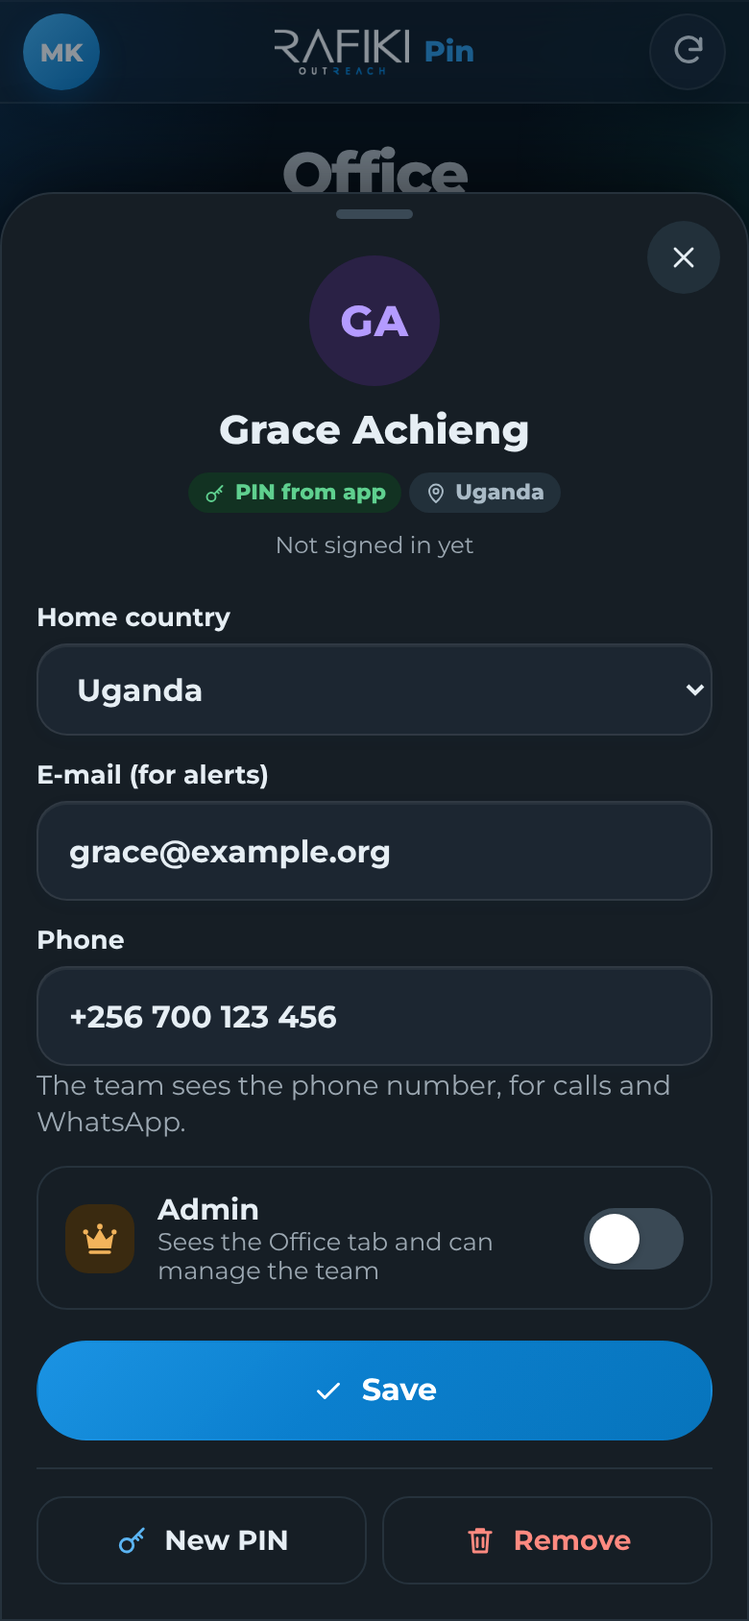
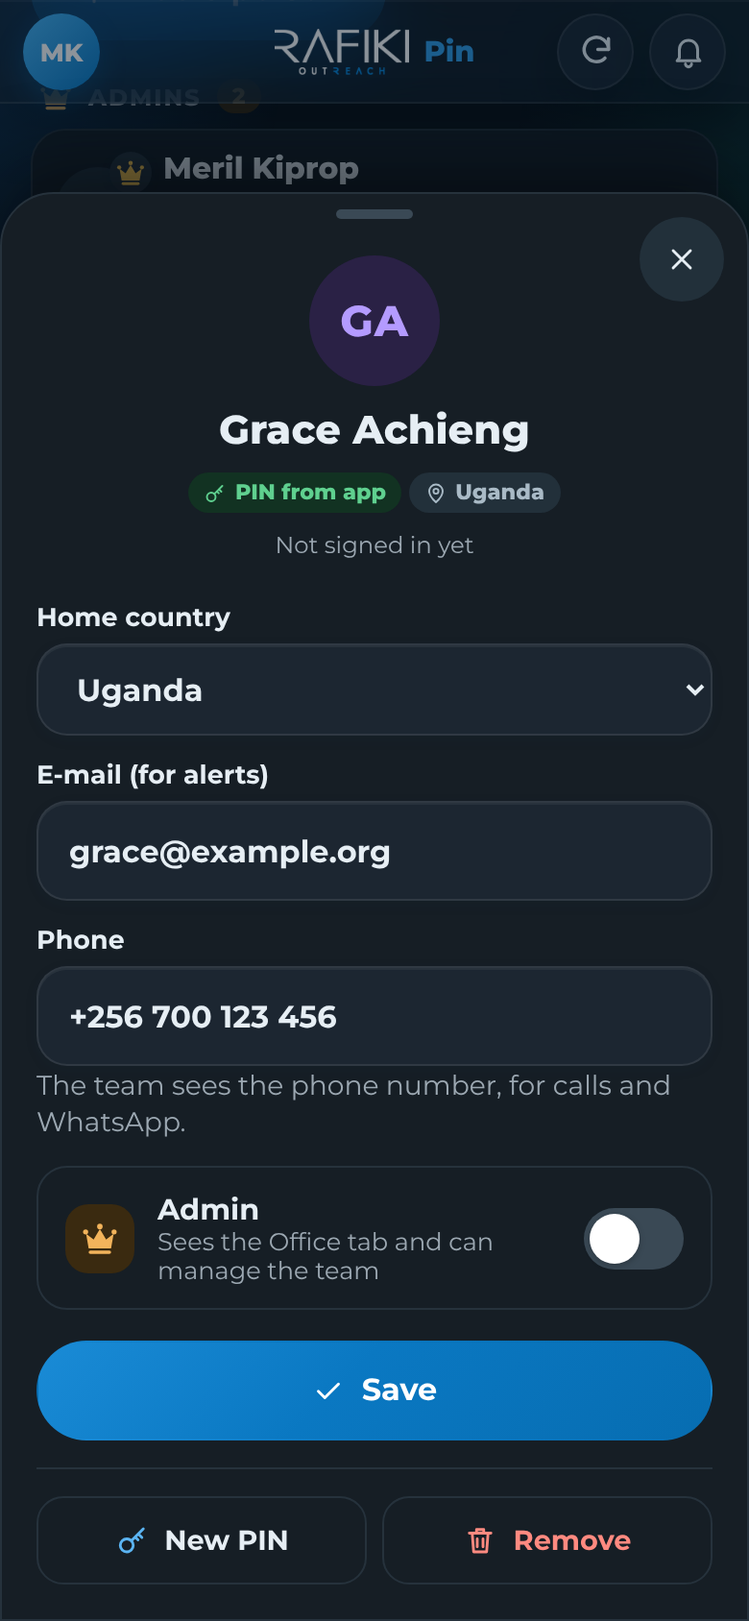
Office › Team: fixes after the merge, dark and sun checks, admin row target
Claude-Session: https://claude.ai/code/session_01P7qSY1BrJphTjrgnmLJhfF

diff --git a/pin.html b/pin.html
@@ -5229,41 +5229,40 @@ label.dnr-p small{display:block;color:var(--muted);font-size:.76rem;font-weight:
   // team: people, roles, PINs. A short list grouped by role (admins wear a crown); tap a person for a sheet with their details and actions.
   Object.assign(OIC, {
     key: '<circle cx="8" cy="15.5" r="4.5"/><path d="M11.2 12.3 19.5 4M16 7.5l2.5 2.5M13.8 9.7l2 2"/>',
-    trash: '<path d="M4.5 6.5h15M9.5 6.5v-2h5v2M6.5 6.5l1 13.5h9l1-13.5M10 10.5v6M14 10.5v6"/>',
     mail: '<rect x="3.5" y="5.5" width="17" height="13" rx="2.5"/><path d="M4 7.5l8 6 8-6"/>',
     cloud: '<path d="M7 18.5a4.5 4.5 0 0 1-.6-9A6 6 0 0 1 18 9.6a4.5 4.5 0 0 1-.5 8.9z"/>',
     x: '<path d="M6 6l12 12M18 6L6 18"/>'
   });
   var CROWN = '<svg viewBox="0 0 24 24" aria-hidden="true"><path fill="currentColor" d="M3.4 8.9 8.1 12.4l3.9-6.6 3.9 6.6 4.7-3.5-1.6 9.1H5z"/><rect fill="currentColor" x="5" y="19.3" width="14" height="2.2" rx="1.1"/><circle fill="currentColor" cx="3.1" cy="7.7" r="1.6"/><circle fill="currentColor" cx="12" cy="4.3" r="1.7"/><circle fill="currentColor" cx="20.9" cy="7.7" r="1.6"/></svg>';
   var TM_HUES = ['blue', 'green', 'purple', 'teal', 'coral', 'slate'];
-  var TM_SRC = { app: ['PIN from app', 'key'], cloudflare: ['PIN in Cloudflare', 'cloud'], monday: ['monday.com', 'people'] };
+  var TM_SRC = { app: ['PIN from app', 'key', 'PIN ya programu'], cloudflare: ['PIN in Cloudflare', 'cloud', 'PIN iko Cloudflare'], monday: ['monday.com', 'people'] };
   function tmHue(n) { var h = 7; String(n || '').toLowerCase().split('').forEach(function (c) { h = (h * 31 + c.charCodeAt(0)) >>> 0; }); return TM_HUES[h % TM_HUES.length]; }
   function tmAv(p) { var h = tmHue(p.name); return '<span class="tm-av" style="--hu:var(--hu-' + h + ');--hb:var(--hb-' + h + ')" aria-hidden="true">' + esc(initials(p.name)) + (p.admin ? '<i class="cr">' + CROWN + '</i>' : '') + '</span>'; }
   function tmTags(p, long) {
     var s = TM_SRC[p.source] || TM_SRC.app;
-    return '<span class="tm-tags">' + (p.admin ? '<span class="tm-t adm">' + CROWN + 'Admin</span>' : '') + '<span class="tm-t s-' + esc(p.source || 'app') + '">' + oic(s[1]) + s[0] + '</span>' +
+    return '<span class="tm-tags">' + (p.admin ? '<span class="tm-t adm">' + CROWN + tr('Admin', 'Msimamizi') + '</span>' : '') + '<span class="tm-t s-' + esc(p.source || 'app') + '">' + oic(s[1]) + tr(s[0], s[2]) + '</span>' +
       (CNAME[p.home] ? '<span class="tm-t" title="' + CNAME[p.home] + '">' + oic('pin') + (long ? CNAME[p.home] : p.home.toUpperCase()) + '</span>' : '') + '</span>';
   }
-  function tmSeen(p) { return p.lastSeen ? 'Last active ' + esc(since(p.lastSeen)) : 'Not signed in yet'; }
-  function tmHomes(sel) { return '<option value="">All countries</option>' + ['ke', 'tz', 'ug', 'mw'].map(function (c) { return '<option value="' + c + '"' + (sel === c ? ' selected' : '') + '>' + CNAME[c] + '</option>'; }).join(''); }
-  function tmSwitch(on) { return '<button type="button" class="tm-sw" role="switch" aria-checked="' + !!on + '" data-f="admin"><span class="ic">' + CROWN + '</span><span><b>Admin</b><small>Sees the Office tab and can manage the team</small></span><i aria-hidden="true"></i></button>'; }
+  function tmSeen(p) { return p.lastSeen ? tr('Last active ', 'Alitumia mwisho ') + esc(since(p.lastSeen)) : tr('Not signed in yet', 'Bado hajaingia'); }
+  function tmHomes(sel) { return '<option value="">' + tr('All countries', 'Nchi zote') + '</option>' + ['ke', 'tz', 'ug', 'mw'].map(function (c) { return '<option value="' + c + '"' + (sel === c ? ' selected' : '') + '>' + CNAME[c] + '</option>'; }).join(''); }
+  function tmSwitch(on) { return '<button type="button" class="tm-sw" role="switch" aria-checked="' + !!on + '" data-f="admin"><span class="ic">' + CROWN + '</span><span><b>' + tr('Admin', 'Msimamizi') + '</b><small>' + tr('Sees the Office tab and can manage the team', 'Anaona Ofisi na anaweza kusimamia timu') + '</small></span><i aria-hidden="true"></i></button>'; }
   function oTeam(b, quiet) {
     var all = (O.team || []).slice().sort(function (a, z) { return a.name.localeCompare(z.name); }), i = 0;
     var adm = all.filter(function (p) { return p.admin; }), fld = all.filter(function (p) { return !p.admin; });
     var row = function (p) {
-      return '<button type="button" class="tm-row" data-who="' + esc(p.name) + '" style="--i:' + Math.min(i++, 12) + '" aria-label="' + esc(p.name) + (p.admin ? ', admin' : '') + '">' + tmAv(p) +
+      return '<button type="button" class="tm-row" data-who="' + esc(p.name) + '" style="--i:' + Math.min(i++, 12) + '" aria-label="' + esc(p.name) + (p.admin ? ', ' + tr('admin', 'msimamizi') : '') + '">' + tmAv(p) +
         '<span class="tm-mid"><b class="tm-nm">' + esc(p.name) + '</b>' + tmTags(p) + '<small class="tm-seen">' + tmSeen(p) + '</small></span><span class="tm-chev" aria-hidden="true">' + oic('chev') + '</span></button>';
     };
     var sec = function (k, title, ic, list) {
       return '<h3 class="tm-sec ' + k + '" data-sec="' + k + '">' + ic + '<span>' + title + '</span><span class="n">' + list.length + '</span></h3><div class="tm-list' + (quiet ? ' still' : '') + '" data-sec="' + k + '">' +
-        (list.length ? list.map(row).join('') : '<p class="tm-empty">' + (k === 'adm' ? 'No admins yet.' : 'Nobody here yet. Add a person above.') + '</p>') + '</div>';
+        (list.length ? list.map(row).join('') : '<p class="tm-empty">' + (k === 'adm' ? tr('No admins yet.', 'Bado hakuna wasimamizi.') : tr('Nobody here yet. Add a person above.', 'Hakuna mtu bado. Ongeza mtu hapo juu.')) + '</p>') + '</div>';
     };
-    b.innerHTML = '<div class="o-grid tm"><div><div class="tm-top"><button class="btn" type="button" id="tmAdd">' + oic('plus') + 'Add a person</button>' +
-      (all.length > 8 ? '<input type="search" id="tmQ" placeholder="Find a person" aria-label="Find a person" autocomplete="off">' : '') + '</div>' +
-      sec('adm', 'Admins', CROWN, adm) + sec('fld', 'Field team', oic('people'), fld) + '</div>' +
-      '<div class="o-side"><div class="card"><div class="tm-mail"><span class="ic">' + oic('mail') + '</span><div><h2>E-mail alerts</h2>' +
-      (O.mail && O.mail.ready ? '<p class="muted">Alerts go to: <b>' + esc((O.mail.to || []).join(', ') || 'nobody yet: add an admin with an e-mail') + '</b></p><button class="btn small light" type="button" id="tTest">Send a test e-mail</button> <span class="msg" id="tTestMsg" aria-live="polite"></span>'
-        : '<p class="muted">Not switched on yet. Add RESEND_API_KEY and ALERT_FROM in Cloudflare (see the set-up notes).</p>') + '</div></div></div></div></div>';
+    b.innerHTML = '<div class="o-grid tm"><div><div class="tm-top"><button class="btn" type="button" id="tmAdd">' + oic('plus') + tr('Add a person', 'Ongeza mtu') + '</button>' +
+      (all.length > 8 ? '<input type="search" id="tmQ" placeholder="' + tr('Find a person', 'Tafuta mtu') + '" aria-label="' + tr('Find a person', 'Tafuta mtu') + '" autocomplete="off">' : '') + '</div>' +
+      sec('adm', tr('Admins', 'Wasimamizi'), CROWN, adm) + sec('fld', tr('Field team', 'Timu ya uwanjani'), oic('people'), fld) + '</div>' +
+      '<div class="o-side"><div class="card"><div class="tm-mail"><span class="ic">' + oic('mail') + '</span><div><h2>' + tr('E-mail alerts', 'Taarifa kwa barua pepe') + '</h2>' +
+      (O.mail && O.mail.ready ? '<p class="muted">' + tr('Alerts go to: ', 'Taarifa zinaenda kwa: ') + '<b>' + esc((O.mail.to || []).join(', ') || tr('nobody yet: add an admin with an e-mail', 'bado hakuna: ongeza msimamizi mwenye barua pepe')) + '</b></p><button class="btn small light" type="button" id="tTest">' + tr('Send a test e-mail', 'Tuma barua pepe ya majaribio') + '</button> <span class="msg" id="tTestMsg" aria-live="polite"></span>'
+        : '<p class="muted">' + tr('Not switched on yet. Add RESEND_API_KEY and ALERT_FROM in Cloudflare (see the set-up notes).', 'Bado haijawashwa. Ongeza RESEND_API_KEY na ALERT_FROM kwenye Cloudflare (angalia maelezo ya kuweka).') + '</p>') + '</div></div></div></div></div>';
     var g = b.querySelector('.o-grid');
     g.addEventListener('click', function (e) { var r = e.target.closest('.tm-row'); if (r) { buzz(); tmOpen(r.getAttribute('data-who')); } });
     $('tmAdd').addEventListener('click', function () { buzz(); tmAddOpen(); });
@@ -5274,13 +5273,13 @@ label.dnr-p small{display:block;color:var(--muted);font-size:.76rem;font-weight:
         var h = g.querySelector('.tm-sec[data-sec=' + l.getAttribute('data-sec') + ']'); h.querySelector('.n').textContent = n; h.hidden = l.hidden = !!q && !n;
       });
     });
-    if ($('tTest')) $('tTest').addEventListener('click', function () { msg('tTestMsg', '', 'Sending…'); adminApi('POST', { action: 'test-mail' }).then(function (j) { msg('tTestMsg', j.ok ? 'ok' : 'bad', j.ok ? 'Sent ✓ Check the inbox.' : j.reason === 'no-recipients' ? 'No e-mail addresses yet.' : why(j)); }); });
+    if ($('tTest')) $('tTest').addEventListener('click', function () { msg('tTestMsg', '', tr('Sending…', 'Inatuma…')); adminApi('POST', { action: 'test-mail' }).then(function (j) { msg('tTestMsg', j.ok ? 'ok' : 'bad', j.ok ? tr('Sent ✓ Check the inbox.', 'Imetumwa ✓ Angalia barua pepe.') : j.reason === 'no-recipients' ? tr('No e-mail addresses yet.', 'Bado hakuna anwani za barua pepe.') : why(j)); }); });
   }
   function tmRedraw() { if (S.view === 'vOffice' && O.tab === 'team') oNeedTeam(function () { oTeam($('oBody'), true); }); }
   // a sheet that springs up from the bottom (a centred card on a wide screen). Tap outside, drag down or Esc closes it.
   function tSheet(label, html) {
     var w = document.createElement('div'), back = document.activeElement; w.className = 'tsh'; w.setAttribute('role', 'dialog'); w.setAttribute('aria-modal', 'true'); w.setAttribute('aria-label', label);
-    w.innerHTML = '<div class="tsh-bg"></div><div class="tsh-p" tabindex="-1"><i class="grab" aria-hidden="true"></i><button type="button" class="tsh-x" aria-label="Close">' + oic('x') + '</button><div class="tsh-c">' + html + '</div></div>';
+    w.innerHTML = '<div class="tsh-bg"></div><div class="tsh-p" tabindex="-1"><i class="grab" aria-hidden="true"></i><button type="button" class="tsh-x" aria-label="' + tr('Close', 'Funga') + '">' + oic('x') + '</button><div class="tsh-c">' + html + '</div></div>';
     document.body.appendChild(w); void w.offsetWidth;
     var p = w.querySelector('.tsh-p'), y0 = null, dy = 0, key = function (e) { if (e.key === 'Escape') w.close(); };
     requestAnimationFrame(function () { w.classList.add('in'); try { p.focus({ preventScroll: true }); } catch (e) {} });
@@ -5297,25 +5296,25 @@ label.dnr-p small{display:block;color:var(--muted);font-size:.76rem;font-weight:
   }
   // ask before something that can't be undone, inside the sheet
   function tmAsk(box, q, label, red, go) {
-    box.innerHTML = '<div class="tm-ask' + (red ? ' bad' : '') + '" role="group" aria-label="' + esc(label) + '"><p>' + esc(q) + '</p><div class="tm-go"><button class="btn small light" type="button" data-k="no">Cancel</button><button class="btn small' + (red ? ' red' : '') + '" type="button" data-k="yes">' + esc(label) + '</button><span class="msg" aria-live="polite"></span></div></div>';
+    box.innerHTML = '<div class="tm-ask' + (red ? ' bad' : '') + '" role="group" aria-label="' + esc(label) + '"><p>' + esc(q) + '</p><div class="tm-go"><button class="btn small light" type="button" data-k="no">' + tr('Cancel', 'Ghairi') + '</button><button class="btn small' + (red ? ' red' : '') + '" type="button" data-k="yes">' + esc(label) + '</button><span class="msg" aria-live="polite"></span></div></div>';
     var m = box.querySelector('.msg');
     box.querySelector('[data-k=no]').addEventListener('click', function () { box.innerHTML = ''; });
-    box.querySelector('[data-k=yes]').addEventListener('click', function () { qa('button', box).forEach(function (x) { x.disabled = true; }); m.className = 'msg'; m.textContent = 'Working…'; go(m); });
+    box.querySelector('[data-k=yes]').addEventListener('click', function () { qa('button', box).forEach(function (x) { x.disabled = true; }); m.className = 'msg'; m.textContent = tr('Working…', 'Inafanya kazi…'); go(m); });
     box.querySelector('[data-k=yes]').focus({ preventScroll: true }); box.scrollIntoView({ block: 'nearest', behavior: 'smooth' });
   }
   function tmOpen(name) {
     var p = (O.team || []).filter(function (x) { return x.name === name; })[0]; if (!p) return;
     var app = p.source === 'app', hd = function () { return '<div class="tm-hd">' + tmAv(p) + '<h3>' + esc(p.name) + '</h3>' + tmTags(p, true) + '<small class="tm-seen">' + tmSeen(p) + '</small></div>'; };
     var html = hd() + (app
-      ? '<div class="tm-f"><label>Home country<select data-f="home">' + tmHomes(p.home) + '</select></label>' +
-        '<div class="row2"><label>E-mail (for alerts)<input type="email" data-f="email" value="' + esc(p.email || '') + '" placeholder="name@rafikioutreach.org" autocomplete="off"></label>' +
-        '<label>Phone<input type="tel" data-f="phone" value="' + esc(p.phone || '') + '" placeholder="+254 712 345 678" autocomplete="off"></label></div>' +
-        '<small class="muted">The team sees the phone number, for calls and WhatsApp.</small>' + tmSwitch(p.admin) +
-        '<div class="tm-go"><button class="btn" type="button" data-a="save">' + oic('check') + 'Save</button><span class="msg" aria-live="polite"></span></div>' +
-        '<div class="tm-ab"><button type="button" data-a="pin">' + oic('key') + 'New PIN</button><button type="button" data-a="rm">' + oic('trash') + 'Remove</button></div><div class="tm-cf" aria-live="polite"></div></div>'
-      : '<div class="tm-note ' + esc(p.source) + '">' + oic(p.source === 'cloudflare' ? 'cloud' : 'people') + '<span>' + (p.source === 'cloudflare' ? 'Set in Cloudflare — change it there, or re-add here with an app PIN.' : 'Signs in with monday.com. The Admin role comes from PIN_ADMINS in Cloudflare.') + '</span></div>' +
-        (p.email || p.phone ? '<dl class="tm-kv">' + (p.email ? '<div><dt>E-mail</dt><dd>' + esc(p.email) + '</dd></div>' : '') + (p.phone ? '<div><dt>Phone</dt><dd>' + esc(p.phone) + '</dd></div>' : '') + '</dl>' : '') +
-        '<div class="tm-go"><button class="btn light" type="button" data-a="readd">' + oic('key') + (p.source === 'cloudflare' ? 'Re-add with an app PIN' : 'Give them an app PIN') + '</button></div>');
+      ? '<div class="tm-f"><label>' + tr('Home country', 'Nchi ya nyumbani') + '<select data-f="home">' + tmHomes(p.home) + '</select></label>' +
+        '<div class="row2"><label>' + tr('E-mail (for alerts)', 'Barua pepe (kwa taarifa)') + '<input type="email" data-f="email" value="' + esc(p.email || '') + '" placeholder="name@rafikioutreach.org" autocomplete="off"></label>' +
+        '<label>' + tr('Phone', 'Simu') + '<input type="tel" data-f="phone" value="' + esc(p.phone || '') + '" placeholder="+254 712 345 678" autocomplete="off"></label></div>' +
+        '<small class="muted">' + tr('The team sees the phone number, for calls and WhatsApp.', 'Timu inaona namba ya simu, kwa kupiga na WhatsApp.') + '</small>' + tmSwitch(p.admin) +
+        '<div class="tm-go"><button class="btn" type="button" data-a="save">' + oic('check') + tr('Save', 'Hifadhi') + '</button><span class="msg" aria-live="polite"></span></div>' +
+        '<div class="tm-ab"><button type="button" data-a="pin">' + oic('key') + tr('New PIN', 'PIN mpya') + '</button><button type="button" data-a="rm">' + oic('trash') + tr('Remove', 'Ondoa') + '</button></div><div class="tm-cf" aria-live="polite"></div></div>'
+      : '<div class="tm-note ' + esc(p.source) + '">' + oic(p.source === 'cloudflare' ? 'cloud' : 'people') + '<span>' + (p.source === 'cloudflare' ? tr('Set in Cloudflare — change it there, or re-add here with an app PIN.', 'Imewekwa Cloudflare — ibadilishe huko, au mwongeze hapa kwa PIN ya programu.') : tr('Signs in with monday.com. The Admin role comes from PIN_ADMINS in Cloudflare.', 'Anaingia kwa monday.com. Nafasi ya msimamizi inatoka PIN_ADMINS kwenye Cloudflare.')) + '</span></div>' +
+        (p.email || p.phone ? '<dl class="tm-kv">' + (p.email ? '<div><dt>' + tr('E-mail', 'Barua pepe') + '</dt><dd>' + esc(p.email) + '</dd></div>' : '') + (p.phone ? '<div><dt>' + tr('Phone', 'Simu') + '</dt><dd>' + esc(p.phone) + '</dd></div>' : '') + '</dl>' : '') +
+        '<div class="tm-go"><button class="btn light" type="button" data-a="readd">' + oic('key') + (p.source === 'cloudflare' ? tr('Re-add with an app PIN', 'Mwongeze kwa PIN ya programu') : tr('Give them an app PIN', 'Mpe PIN ya programu')) + '</button></div>');
     var w = tSheet(p.name, html), c = w.querySelector('.tsh-c'), cf = c.querySelector('.tm-cf'), m = c.querySelector('.tm-go .msg');
     c.addEventListener('click', function (e) {
       var sw = e.target.closest('.tm-sw'); if (sw) { sw.setAttribute('aria-checked', String(sw.getAttribute('aria-checked') !== 'true')); buzz(); return; }
@@ -5324,22 +5323,22 @@ label.dnr-p small{display:block;color:var(--muted);font-size:.76rem;font-weight:
       if (k === 'readd') { w.close(); setTimeout(function () { tmAddOpen(p); }, 200); return; }
       if (k === 'save') {
         var body = { action: 'team-update', name: p.name, home: f('home').value, email: f('email').value.trim(), phone: f('phone').value.trim(), admin: f('admin').getAttribute('aria-checked') === 'true' };
-        a.disabled = true; m.className = 'msg'; m.textContent = 'Saving…';
+        a.disabled = true; m.className = 'msg'; m.textContent = tr('Saving…', 'Inahifadhi…');
         adminApi('POST', body).then(function (j) {
           a.disabled = false;
-          if (!j.ok) { m.className = 'msg bad'; m.textContent = j.reason === 'self' ? 'You can’t remove your own admin role.' : why(j); return; }
+          if (!j.ok) { m.className = 'msg bad'; m.textContent = j.reason === 'self' ? tr('You can’t remove your own admin role.', 'Huwezi kuondoa nafasi yako mwenyewe ya msimamizi.') : why(j); return; }
           p.home = body.home; p.email = body.email; p.phone = body.phone; p.admin = body.admin;
-          c.querySelector('.tm-hd').outerHTML = hd(); m.className = 'msg ok'; m.textContent = 'Saved ✓';
+          c.querySelector('.tm-hd').outerHTML = hd(); m.className = 'msg ok'; m.textContent = tr('Saved ✓', 'Imehifadhiwa ✓');
           tmRedraw(); setTimeout(w.close, 800);
         });
       }
-      if (k === 'pin') tmAsk(cf, 'Make a new PIN for ' + p.name + '? Their old PIN stops working.', 'Make a new PIN', false, function (am) {
+      if (k === 'pin') tmAsk(cf, tr('Make a new PIN for ' + p.name + '? Their old PIN stops working.', 'Tengeneza PIN mpya ya ' + p.name + '? PIN ya zamani itaacha kufanya kazi.'), tr('Make a new PIN', 'Tengeneza PIN mpya'), false, function (am) {
         adminApi('POST', { action: 'team-pin', name: p.name }).then(function (j) { if (!j.ok) { am.className = 'msg bad'; am.textContent = why(j); qa('button', cf).forEach(function (x) { x.disabled = false; }); return; } pinBox(cf, p.name, j.pin); cf.scrollIntoView({ block: 'nearest', behavior: 'smooth' }); });
       });
-      if (k === 'rm') tmAsk(cf, 'Remove ' + p.name + ' from the team? Their PIN stops working straight away.', 'Remove', true, function (am) {
+      if (k === 'rm') tmAsk(cf, tr('Remove ' + p.name + ' from the team? Their PIN stops working straight away.', 'Ondoa ' + p.name + ' kwenye timu? PIN yake itaacha kufanya kazi mara moja.'), tr('Remove', 'Ondoa'), true, function (am) {
         adminApi('POST', { action: 'team-remove', name: p.name }).then(function (j) {
           if (!j.ok) { am.className = 'msg bad'; am.textContent = why(j); qa('button', cf).forEach(function (x) { x.disabled = false; }); return; }
-          am.className = 'msg ok'; am.textContent = 'Removed ✓'; O.team = null; tmRedraw(); setTimeout(w.close, 700);
+          am.className = 'msg ok'; am.textContent = tr('Removed ✓', 'Imeondolewa ✓'); O.team = null; tmRedraw(); setTimeout(w.close, 700);
         });
       });
     });
@@ -5347,11 +5346,11 @@ label.dnr-p small{display:block;color:var(--muted);font-size:.76rem;font-weight:
   function tmAddOpen(pre) {
     pre = pre || {};
     var av = function (n, adm) { var h = tmHue(n); return '<span class="tm-av" style="--hu:var(--hu-' + h + ');--hb:var(--hb-' + h + ')" aria-hidden="true">' + (n.trim() ? esc(initials(n)) : oic('plus')) + (adm ? '<i class="cr">' + CROWN + '</i>' : '') + '</span>'; };
-    var w = tSheet('Add a person', '<div class="tm-hd">' + av(pre.name || '', pre.admin) + '<h3>Add a person</h3><small class="tm-seen">They get their own 4-digit PIN, shown once. Send it to them privately.</small></div>' +
-      '<div class="tm-f"><label>Name<input type="text" data-f="name" autocomplete="off" placeholder="e.g. Jessica Anderson" value="' + esc(pre.name || '') + '"></label>' +
-      '<label>Home country<select data-f="home">' + tmHomes(pre.home || '') + '</select></label>' +
-      '<div class="row2"><label>E-mail (optional)<input type="email" data-f="email" placeholder="for alerts" autocomplete="off"></label><label>Phone (optional)<input type="tel" data-f="phone" placeholder="+254 712 345 678" autocomplete="off"></label></div>' +
-      tmSwitch(pre.admin) + '<div class="tm-go"><button class="btn" type="button" data-a="add">' + oic('plus') + 'Add and create PIN</button><span class="msg" aria-live="polite"></span></div></div>');
+    var w = tSheet(tr('Add a person', 'Ongeza mtu'), '<div class="tm-hd">' + av(pre.name || '', pre.admin) + '<h3>' + tr('Add a person', 'Ongeza mtu') + '</h3><small class="tm-seen">' + tr('They get their own 4-digit PIN, shown once. Send it to them privately.', 'Wanapata PIN yao ya tarakimu 4, inaonyeshwa mara moja. Wapelekee kwa siri.') + '</small></div>' +
+      '<div class="tm-f"><label>' + tr('Name', 'Jina') + '<input type="text" data-f="name" autocomplete="off" placeholder="' + tr('e.g. Jessica Anderson', 'mf. Jessica Anderson') + '" value="' + esc(pre.name || '') + '"></label>' +
+      '<label>' + tr('Home country', 'Nchi ya nyumbani') + '<select data-f="home">' + tmHomes(pre.home || '') + '</select></label>' +
+      '<div class="row2"><label>' + tr('E-mail (optional)', 'Barua pepe (si lazima)') + '<input type="email" data-f="email" placeholder="' + tr('for alerts', 'kwa taarifa') + '" autocomplete="off"></label><label>' + tr('Phone (optional)', 'Simu (si lazima)') + '<input type="tel" data-f="phone" placeholder="+254 712 345 678" autocomplete="off"></label></div>' +
+      tmSwitch(pre.admin) + '<div class="tm-go"><button class="btn" type="button" data-a="add">' + oic('plus') + tr('Add and create PIN', 'Ongeza na utengeneze PIN') + '</button><span class="msg" aria-live="polite"></span></div></div>');
     var c = w.querySelector('.tsh-c'), f = function (n) { return c.querySelector('[data-f=' + n + ']'); }, m = c.querySelector('.msg'), nm = f('name');
     var avNow = function () { c.querySelector('.tm-hd .tm-av').outerHTML = av(nm.value, f('admin').getAttribute('aria-checked') === 'true'); };
     nm.addEventListener('input', avNow);
@@ -5360,13 +5359,13 @@ label.dnr-p small{display:block;color:var(--muted);font-size:.76rem;font-weight:
       var sw = e.target.closest('.tm-sw'); if (sw) { sw.setAttribute('aria-checked', String(sw.getAttribute('aria-checked') !== 'true')); buzz(); avNow(); return; }
       var a = e.target.closest('[data-a]'); if (!a) return;
       if (a.getAttribute('data-a') === 'done') { w.close(); return; }
-      var n = nm.value.trim(); if (!n) { nm.focus(); m.className = 'msg bad'; m.textContent = 'Type their name first.'; return; }
+      var n = nm.value.trim(); if (!n) { nm.focus(); m.className = 'msg bad'; m.textContent = tr('Type their name first.', 'Andika jina lake kwanza.'); return; }
       var adm = f('admin').getAttribute('aria-checked') === 'true';
-      a.disabled = true; m.className = 'msg'; m.textContent = 'Adding…';
+      a.disabled = true; m.className = 'msg'; m.textContent = tr('Adding…', 'Inaongeza…');
       adminApi('POST', { action: 'team-add', name: n, home: f('home').value, email: f('email').value.trim(), phone: f('phone').value.trim(), admin: adm }).then(function (j) {
         a.disabled = false;
-        if (!j.ok) { m.className = 'msg bad'; m.textContent = j.reason === 'exists' ? 'Someone with that name is already on the team.' : why(j); return; }
-        c.innerHTML = '<div class="tm-hd">' + tmAv({ name: n, admin: adm }) + '<h3>' + esc(n) + '</h3><small class="tm-seen">Added to the team ✓</small></div><div class="tm-cf"></div><div class="tm-go"><button class="btn light" type="button" data-a="done">Done</button></div>';
+        if (!j.ok) { m.className = 'msg bad'; m.textContent = j.reason === 'exists' ? tr('Someone with that name is already on the team.', 'Mtu mwenye jina hilo tayari yuko kwenye timu.') : why(j); return; }
+        c.innerHTML = '<div class="tm-hd">' + tmAv({ name: n, admin: adm }) + '<h3>' + esc(n) + '</h3><small class="tm-seen">' + tr('Added to the team ✓', 'Ameongezwa kwenye timu ✓') + '</small></div><div class="tm-cf"></div><div class="tm-go"><button class="btn light" type="button" data-a="done">' + tr('Done', 'Imekamilika') + '</button></div>';
         pinBox(c.querySelector('.tm-cf'), n, j.pin); O.team = null; tmRedraw();
       });
     });

diff --git a/apps/android-native/app/src/main/java/org/rafikioutreach/pin/ui/OfficeScreen.kt b/apps/android-native/app/src/main/java/org/rafikioutreach/pin/ui/OfficeScreen.kt
@@ -636,7 +636,7 @@ private fun PersonRow(p: JSONObject, i: Int, onClick: () -> Unit) {
 @Composable
 private fun AdminSwitch(on: Boolean, flip: () -> Unit) {
     val hu = C.hue("amber")
-    Row(Modifier.padding(top = 14.dp).fillMaxWidth().clip(RoundedCornerShape(16.dp)).border(if (C.glassy) 1.dp else 2.dp, C.line, RoundedCornerShape(16.dp)).clickable(role = Role.Switch, onClick = flip).padding(12.dp), verticalAlignment = Alignment.CenterVertically) {
+    Row(Modifier.padding(top = 14.dp).fillMaxWidth().clip(RoundedCornerShape(16.dp)).border(if (C.glassy) 1.dp else 2.dp, C.line, RoundedCornerShape(16.dp)).clickable(role = Role.Switch, onClick = flip).testTag("tm_admin_row").padding(12.dp), verticalAlignment = Alignment.CenterVertically) {
         Box(Modifier.size(36.dp).clip(RoundedCornerShape(12.dp)).background(hu.bg).padding(8.dp)) { Icon(Ic.crownFill, null, tint = hu.fg, modifier = Modifier.fillMaxSize()) }
         Spacer(Modifier.width(12.dp))
         Column(Modifier.weight(1f)) {
@@ -644,7 +644,7 @@ private fun AdminSwitch(on: Boolean, flip: () -> Unit) {
             Text(t("Sees the Office and can manage the team", "Anaona Ofisi na anaweza kusimamia timu"), style = MaterialTheme.typography.bodySmall, color = C.muted)
         }
         Spacer(Modifier.width(8.dp))
-        Toggle(on, t("Admin", "Msimamizi"), Modifier.minimumInteractiveComponentSize().testTag("tm_admin"), flip)
+        Toggle(on, t("Admin", "Msimamizi"), Modifier.testTag("tm_admin").minimumInteractiveComponentSize(), flip)
     }
 }
 

diff --git a/apps/android-native/app/src/test/java/org/rafikioutreach/pin/OfficeTest.kt b/apps/android-native/app/src/test/java/org/rafikioutreach/pin/OfficeTest.kt
@@ -217,6 +217,27 @@ class OfficeTest {
         rule.onNodeWithTag("tm_readd").assertDoesNotExist()
     }
 
+    @Test fun team_list_and_sheet_dark_and_sun() {
+        Lang.sw = false
+        org.rafikioutreach.pin.ui.Look.mode = "dark"
+        try {
+            val m = model(); show(m)
+            rule.onNodeWithTag("nav_office").performClick()
+            rule.onNodeWithTag("o_team").performScrollTo().performClick()
+            waitFor("Meril Kiprop")
+            rule.mainClock.advanceTimeBy(1500)
+            rule.onNodeWithTag("tm_Meril Kiprop").performScrollTo()
+            shot("23h-team-dark")
+            rule.onNodeWithTag("tm_Meril Kiprop").performClick()
+            rule.waitUntil(5000) { rule.onAllNodesWithTag("team_sheet").fetchSemanticsNodes().isNotEmpty() }
+            sheetShot("23i-team-person-dark")
+            // the whole admin row flips the switch, so the target is big enough
+            assertTrue(rule.onNodeWithTag("tm_admin_row").fetchSemanticsNode().size.height >= with(rule.density) { 44.dp.roundToPx() })
+            org.rafikioutreach.pin.ui.Look.mode = "sun"
+            sheetShot("23j-team-person-sun")
+        } finally { org.rafikioutreach.pin.ui.Look.mode = "" }
+    }
+
     @Test fun office_in_kiswahili_and_report() {
         Lang.sw = true
         val m = model(); show(m)

diff --git a/apps/android-native/app/src/main/java/org/rafikioutreach/pin/ui/Icons.kt b/apps/android-native/app/src/main/java/org/rafikioutreach/pin/ui/Icons.kt
@@ -27,7 +27,6 @@ object Ic {
         "person" to listOf(circle(12f, 8f, 3.6f), "M5 20c.8-3.8 3.6-6 7-6s6.2 2.2 7 6"),
         "crown" to listOf("M4.5 18 3 8l5 3.8L12 5l4 6.8L21 8l-1.5 10z", "M5 21h14"),
         "key" to listOf(circle(8f, 15.5f, 4.5f), "M11.2 12.3 19.5 4M16 7.5l2.5 2.5M13.8 9.7l2 2"),
-        "trash" to listOf("M4.5 6.5h15M9.5 6.5v-2h5v2M6.5 6.5l1 13.5h9l1-13.5M10 10.5v6M14 10.5v6"),
         "mail" to listOf(rect(3.5f, 5.5f, 17f, 13f, 2.5f), "M4 7.5l8 6 8-6"),
         "cloud" to listOf("M7 18.5a4.5 4.5 0 0 1-.6-9A6 6 0 0 1 18 9.6a4.5 4.5 0 0 1-.5 8.9z"),
         "map" to listOf("M3.5 6.5l5.5-2.5 6 2.5 5.5-2.5v13.5L15 20l-6-2.5-5.5 2.5z", "M9 4v13.5M15 6.5V20"),

diff --git a/qa/pin/front25.py b/qa/pin/front25.py
@@ -1,7 +1,7 @@
 # Office › Team: a compact list grouped by role (crown on admins), a person sheet that springs up, add a person.
 import json, os, re, sys, datetime
 from playwright.sync_api import sync_playwright
-HERE = os.path.dirname(os.path.abspath(__file__)); BASE = os.environ.get('BASE', 'http://localhost:8799'); OUT = os.path.join(HERE, 'team'); os.makedirs(OUT, exist_ok=True)
+HERE = os.path.dirname(os.path.abspath(__file__)); BASE = os.environ.get('BASE', 'http://localhost:8825'); OUT = os.path.join(HERE, 'team'); os.makedirs(OUT, exist_ok=True)
 now = datetime.datetime.now(datetime.timezone.utc)
 iso = lambda h: (now - datetime.timedelta(hours=h)).strftime('%Y-%m-%dT%H:%M:%SZ')
 P = [{'id': '104', 'title': 'Kapsaret Borehole', 'country': 'Kenya', 'ck': 'ke', 'area': 'Eldoret', 'type': 'Borehole well', 'status': 'Completed', 'gps': [0.47, 35.25]}]
@@ -15,7 +15,7 @@ def team():
 problems = []
 def check(c, w): print(('ok   ' if c else 'FAIL ') + w); (None if c else problems.append(w))
 
-def run(theme, width, full):
+def run(theme, width, full, sw=False):
     posts = []
     def api(route, req):
         if req.method == 'GET':
@@ -31,11 +31,11 @@ def run(theme, width, full):
         if b['action'] == 'team-pin': return route.fulfill(json={'ok': True, 'pin': '5307'})
         if b['action'] == 'team-add': return route.fulfill(json={'ok': True, 'pin': '4821'})
         route.fulfill(json={'ok': True})
-    tag = '%s-%d' % (theme, width)
+    tag = '%s-%d' % (theme, width) + ('-sw' if sw else '')
     with sync_playwright() as p:
         br = p.chromium.launch(); mobile = width < 700
         ctx = br.new_context(viewport={'width': width, 'height': 844 if mobile else 860}, device_scale_factor=2, is_mobile=mobile, has_touch=mobile, service_workers='block')
-        ctx.add_init_script("localStorage.setItem('rfPinTheme','%s');localStorage.setItem('rfPinOnb','1');localStorage.setItem('rfPinOTab','team')" % ('' if theme == 'light' else theme))
+        ctx.add_init_script("localStorage.setItem('rfPinTheme','%s');localStorage.setItem('rfPinOnb','1');localStorage.setItem('rfPinOTab','team');localStorage.setItem('rfPinLang','%s')" % ('' if theme == 'light' else theme, 'sw' if sw else ''))
         pg = ctx.new_page(); errs = []; pg.on('pageerror', lambda e: errs.append(str(e)))
         pg.route('**/api/pin-auth/me', lambda r, q: r.fulfill(json={'available': False})); pg.route(re.compile(r'/api/pin(\?.*)?$'), api)
         pg.route('**/api/admin**', admin); pg.route('**/arcgisonline.com/**', lambda r, q: r.abort())
@@ -52,8 +52,11 @@ def run(theme, width, full):
         check(pg.locator('.tm-list[data-sec=adm] .tm-row .tm-av .cr svg').count() == 2 and pg.locator('.tm-list[data-sec=fld] .tm-av .cr').count() == 0, tag + ': crown (vector) only on admins')
         check(pg.locator('.tm-sec.adm svg path[fill=currentColor]').count() == 1, tag + ': crown in the Admins header')
         rt = pg.inner_text('.tm-row[data-who="Reid Anderson"]')
-        check('PIN in Cloudflare' in rt and 'Admin' in rt, tag + ': tags on a row: ' + rt.replace('\n', ' | '))
-        check('KE' in pg.inner_text('.tm-row[data-who="Meril Kiprop"]') and 'Last active' in pg.inner_text('.tm-row[data-who="Meril Kiprop"]'), tag + ': country code and last active')
+        check(('PIN iko Cloudflare' if sw else 'PIN in Cloudflare') in rt and ('Msimamizi' if sw else 'Admin') in rt, tag + ': tags on a row: ' + rt.replace('\n', ' | '))
+        check('KE' in pg.inner_text('.tm-row[data-who="Meril Kiprop"]') and ('Alitumia mwisho' if sw else 'Last active') in pg.inner_text('.tm-row[data-who="Meril Kiprop"]'), tag + ': country code and last active')
+        if sw: check(pg.text_content('.tm-sec.adm') .startswith('Wasimamizi') and 'Ongeza mtu' in pg.inner_text('#tmAdd') and 'Taarifa kwa barua pepe' in pg.inner_text('.tm-mail'), tag + ': list in Kiswahili')
+        small = pg.eval_on_selector_all('.tm-row, #tmAdd, #tTest', 'e => e.filter(x => x.getBoundingClientRect().height < 44).map(x => x.id || x.className)')
+        check(not small, tag + ': list touch targets 44px+ %s' % small)
         hmax = max(pg.eval_on_selector_all('.tm-row', 'e => e.map(x => x.getBoundingClientRect().height)'))
         check(hmax < 120, tag + ': rows are small cards (%dpx tall)' % hmax)
         check(pg.evaluate('document.documentElement.scrollWidth <= innerWidth'), tag + ': no sideways scroll')
@@ -64,6 +67,9 @@ def run(theme, width, full):
         box = pg.locator('.tsh-p').bounding_box()
         if mobile: check(abs(box['y'] + box['height'] - 844) < 2, tag + ': bottom sheet sits on the bottom edge')
         else: check(abs((box['x'] + box['width'] / 2) - width / 2) < 2 and box['y'] > 20, tag + ': centred card on a wide screen')
+        small = pg.eval_on_selector_all('.tsh button, .tsh select, .tsh input', 'e => e.filter(x => { const r = x.getBoundingClientRect(); return r.height < 44 || r.width < 44; }).map(x => x.className || x.tagName)')
+        check(not small, tag + ': sheet touch targets 44px+ %s' % small)
+        if sw: check(all(w in pg.inner_text('.tsh') for w in ['Nchi ya nyumbani', 'Hifadhi', 'PIN mpya', 'Ondoa', 'Msimamizi']) and pg.get_attribute('.tsh-x', 'aria-label') == 'Funga', tag + ': sheet in Kiswahili')
         pg.screenshot(path=os.path.join(OUT, tag + '-2-person.png'))
         if full:
             pg.fill('.tsh [data-f=phone]', '+256 777 888 999'); pg.select_option('.tsh [data-f=home]', 'ke')
@@ -119,7 +125,7 @@ def run(theme, width, full):
             check(pg.evaluate("getComputedStyle(document.querySelector('.tsh-p')).transitionDuration") in ('0s',), tag + ': reduced motion: no slide')
         check(not errs, tag + ': no page errors %s' % errs[:2]); br.close()
 
-for theme, width, full in [('light', 390, True), ('dark', 390, False), ('light', 1280, True), ('dark', 1280, False), ('sun', 390, False)]:
-    run(theme, width, full)
+for theme, width, full, *sw in [('light', 390, True), ('dark', 390, False), ('light', 1280, True), ('dark', 1280, False), ('sun', 390, False), ('light', 390, False, True)]:
+    run(theme, width, full, *sw)
 print('PROBLEMS', problems)
 sys.exit(1 if problems else 0)
